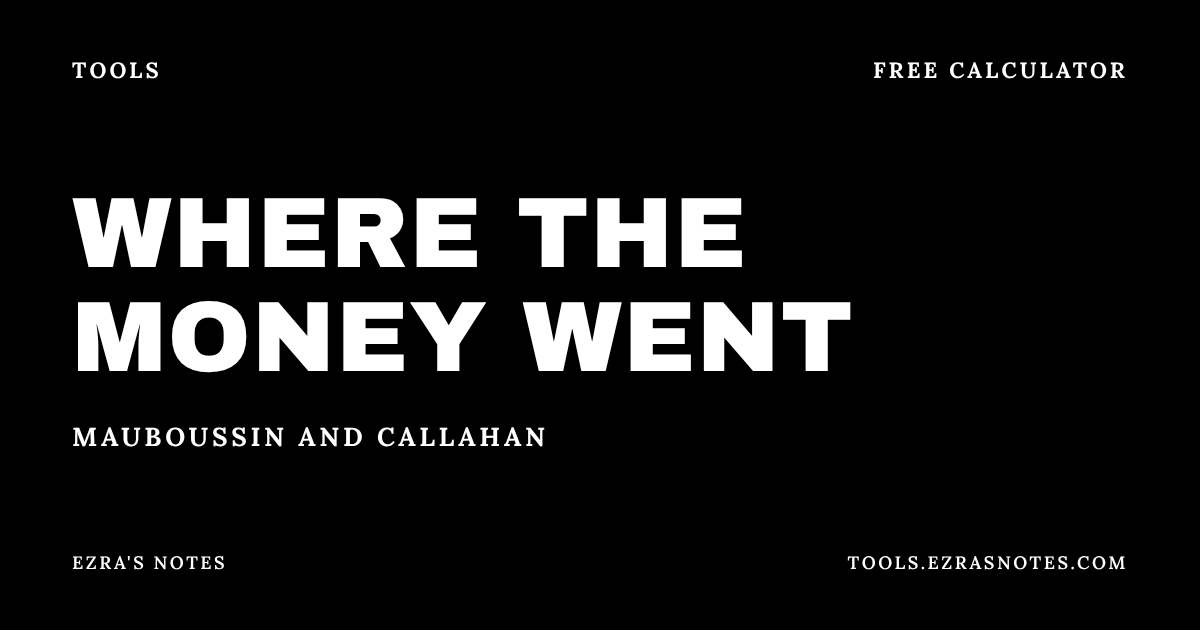
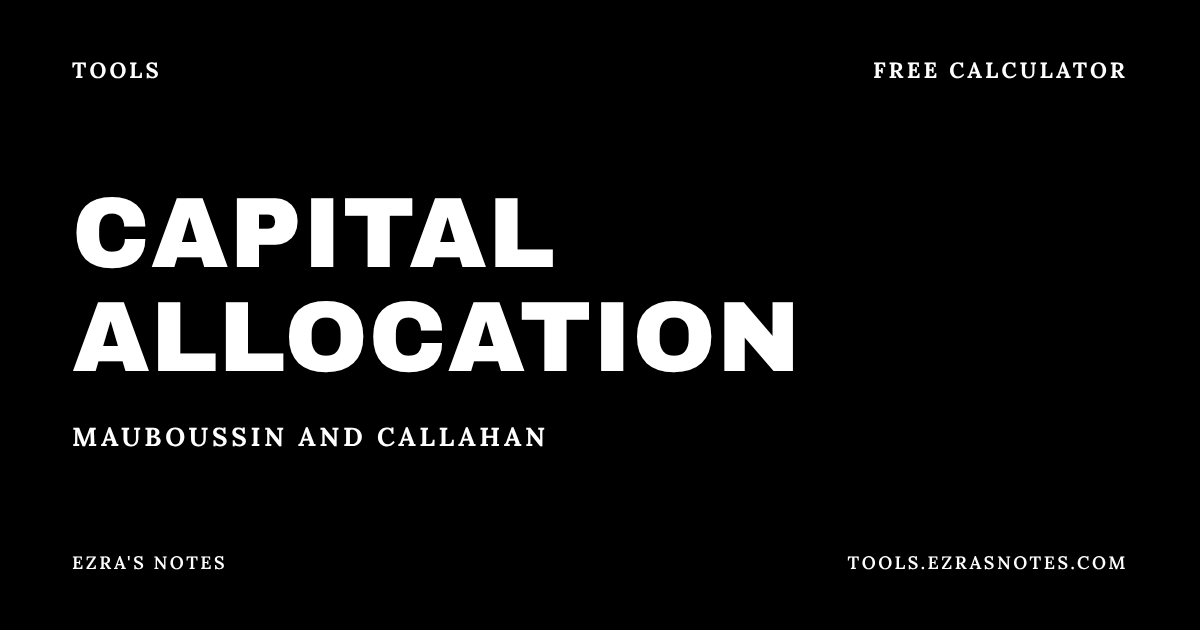
Rename to Capital allocation calculator
Claude-Session: https://claude.ai/code/session_01TK5xzE693EdAtTtiDb4wL7

Changed region(s): [[0.0617, 0.4524, 0.7092, 0.6032], [0.0617, 0.3016, 0.6167, 0.4222]]

diff --git a/docs/capital-allocation/index.html b/docs/capital-allocation/index.html
@@ -7,27 +7,27 @@
 <meta name="viewport" content="width=device-width, initial-scale=1">
 <meta name="color-scheme" content="light dark">
 <script>(function(){var t;try{t=localStorage.getItem('theme')}catch(e){}if(t!=='dark'&&t!=='light'){t=window.matchMedia&&matchMedia('(prefers-color-scheme: dark)').matches?'dark':'light'}document.documentElement.setAttribute('data-theme',t)})();</script>
-<title>Where the money went: capital allocation calculator · Ezra's Notes</title>
+<title>Capital allocation calculator: where the money went · Ezra's Notes</title>
 <meta name="description" content="Where a company's cash came from and where it went over 5 years, what each $1 of new sales cost, and its payout. Mauboussin and Callahan's method. Free.">
 <link rel="preconnect" href="https://fonts.googleapis.com">
 <link rel="preconnect" href="https://fonts.gstatic.com" crossorigin>
 <link href="https://fonts.googleapis.com/css2?family=Archivo+Black&family=Lora:ital,wght@0,400;0,600;1,400&display=swap" rel="stylesheet">
 <link rel="stylesheet" href="../static/style.css?v=14a037f5">
-<meta property="og:title" content="Where the money went: capital allocation calculator · Ezra's Notes">
+<meta property="og:title" content="Capital allocation calculator: where the money went · Ezra's Notes">
 <meta property="og:description" content="Where a company's cash came from and where it went over 5 years, what each $1 of new sales cost, and its payout. Mauboussin and Callahan's method. Free.">
 <meta property="og:url" content="https://tools.ezrasnotes.com/capital-allocation/">
 <meta property="og:type" content="website">
 <meta property="og:site_name" content="Tools · Ezra's Notes"><meta property="og:image" content="https://tools.ezrasnotes.com/static/og/capital-allocation.png">
 <meta property="og:image:width" content="1200">
 <meta property="og:image:height" content="630">
-<meta property="og:image:alt" content="Where the money went, a free calculator by Ezra Crangle. Where a company&#39;s cash came from, where it went, and what went back to shareholders.">
+<meta property="og:image:alt" content="Capital allocation calculator, a free calculator by Ezra Crangle. Where a company&#39;s cash came from, where it went, and what went back to shareholders.">
 <meta name="twitter:card" content="summary_large_image">
 <meta name="twitter:image" content="https://tools.ezrasnotes.com/static/og/capital-allocation.png">
 <meta name="twitter:site" content="@ezracrangle">
 <link rel="icon" href="../static/favicon.ico" sizes="any">
 <link rel="icon" type="image/png" sizes="512x512" href="../static/icon-512.png">
 <link rel="apple-touch-icon" href="../static/apple-touch-icon.png">
-<link rel="canonical" href="https://tools.ezrasnotes.com/capital-allocation/"><script type="application/ld+json">{"@context": "https://schema.org", "@type": "BreadcrumbList", "itemListElement": [{"@type": "ListItem", "item": "https://tools.ezrasnotes.com/", "name": "Home", "position": 1}, {"@type": "ListItem", "item": "https://tools.ezrasnotes.com/capital-allocation/", "name": "Where the money went: capital allocation calculator", "position": 2}]}</script></head>
+<link rel="canonical" href="https://tools.ezrasnotes.com/capital-allocation/"><script type="application/ld+json">{"@context": "https://schema.org", "@type": "BreadcrumbList", "itemListElement": [{"@type": "ListItem", "item": "https://tools.ezrasnotes.com/", "name": "Home", "position": 1}, {"@type": "ListItem", "item": "https://tools.ezrasnotes.com/capital-allocation/", "name": "Capital allocation calculator: where the money went", "position": 2}]}</script></head>
 <body data-collect="https://script.google.com/macros/s/AKfycbz-a4q03dY00RYGWBKOHaKqYKL92Z3afAqhJ5iYdPQGYCMbU2CpFTR-JfEfArbdoUZXHg/exec" data-tool-name="the capital allocation calculator">
 <header class="masthead">
   <div class="topline">
@@ -42,7 +42,7 @@
     <a href="../">All tools</a>
     <details class="nav-menu">
       <summary>Tools</summary>
-      <div class="nav-drop"><a href="../net-net/">Net-net calculator</a><a href="../epv/">Earnings power value</a><a href="../greenwald/">Greenwald&#39;s moat test</a><a href="../penman/">Penman&#39;s residual income</a><a href="../graham/">Graham&#39;s formulas</a><a href="../fcf/">Mauboussin&#39;s FCF</a><a href="../roic/">ROIC, ROIIC and reinvestment</a><a href="../reverse-dcf/">Reverse DCF</a><a href="../compounders/">What to pay for quality</a><a href="../dhandho/">Pabrai&#39;s Dhandho bet</a><a href="../lynch/">Peter Lynch&#39;s PEG</a><a href="../marks/">Howard Marks&#39; market temperature</a><a href="../intangibles/">Intangibles and earnings</a><a href="../capital-allocation/" aria-current="page">Where the money went</a><a href="../buybacks/">Buybacks and stock comp</a><a href="../moat/">Measuring the moat</a><a href="../red-flags/">Red flags</a><a href="../beauty-contest/">Keynes&#39; beauty contest</a></div>
+      <div class="nav-drop"><a href="../net-net/">Net-net calculator</a><a href="../epv/">Earnings power value</a><a href="../greenwald/">Greenwald&#39;s moat test</a><a href="../penman/">Penman&#39;s residual income</a><a href="../graham/">Graham&#39;s formulas</a><a href="../fcf/">Mauboussin&#39;s FCF</a><a href="../roic/">ROIC, ROIIC and reinvestment</a><a href="../reverse-dcf/">Reverse DCF</a><a href="../compounders/">What to pay for quality</a><a href="../dhandho/">Pabrai&#39;s Dhandho bet</a><a href="../lynch/">Peter Lynch&#39;s PEG</a><a href="../marks/">Howard Marks&#39; market temperature</a><a href="../intangibles/">Intangibles and earnings</a><a href="../capital-allocation/" aria-current="page">Capital allocation calculator</a><a href="../buybacks/">Buybacks and stock comp</a><a href="../moat/">Measuring the moat</a><a href="../red-flags/">Red flags</a><a href="../beauty-contest/">Keynes&#39; beauty contest</a></div>
     </details>
     <a href="../about/">About</a>
     <a href="https://www.ezrasnotes.com/subscribe" class="nav-cta">Subscribe</a>
@@ -53,7 +53,7 @@
 <div class="print-head" aria-hidden="true"><strong>Ezra's Notes · Tools</strong><span id="print-stamp"></span></div>
 <div class="print-summary verdict" id="print-summary" aria-hidden="true"></div>
 <section class="lede">
-  <h1 class="page-title">Where the money went</h1>
+  <h1 class="page-title">Capital allocation calculator</h1>
   <p class="dek">Capital allocation starts with a plain question: where did the cash come from, and where did it go? Michael Mauboussin and Dan Callahan begin every assessment there, before ROIC or incentives.</p>
   <p>5 years from the cash flow statement, oldest first, all as positive numbers. Nothing you type leaves your browser.</p>
 </section>

diff --git a/docs/index.html b/docs/index.html
@@ -42,7 +42,7 @@
     <a href="" aria-current="page">All tools</a>
     <details class="nav-menu">
       <summary>Tools</summary>
-      <div class="nav-drop"><a href="net-net/">Net-net calculator</a><a href="epv/">Earnings power value</a><a href="greenwald/">Greenwald&#39;s moat test</a><a href="penman/">Penman&#39;s residual income</a><a href="graham/">Graham&#39;s formulas</a><a href="fcf/">Mauboussin&#39;s FCF</a><a href="roic/">ROIC, ROIIC and reinvestment</a><a href="reverse-dcf/">Reverse DCF</a><a href="compounders/">What to pay for quality</a><a href="dhandho/">Pabrai&#39;s Dhandho bet</a><a href="lynch/">Peter Lynch&#39;s PEG</a><a href="marks/">Howard Marks&#39; market temperature</a><a href="intangibles/">Intangibles and earnings</a><a href="capital-allocation/">Where the money went</a><a href="buybacks/">Buybacks and stock comp</a><a href="moat/">Measuring the moat</a><a href="red-flags/">Red flags</a><a href="beauty-contest/">Keynes&#39; beauty contest</a></div>
+      <div class="nav-drop"><a href="net-net/">Net-net calculator</a><a href="epv/">Earnings power value</a><a href="greenwald/">Greenwald&#39;s moat test</a><a href="penman/">Penman&#39;s residual income</a><a href="graham/">Graham&#39;s formulas</a><a href="fcf/">Mauboussin&#39;s FCF</a><a href="roic/">ROIC, ROIIC and reinvestment</a><a href="reverse-dcf/">Reverse DCF</a><a href="compounders/">What to pay for quality</a><a href="dhandho/">Pabrai&#39;s Dhandho bet</a><a href="lynch/">Peter Lynch&#39;s PEG</a><a href="marks/">Howard Marks&#39; market temperature</a><a href="intangibles/">Intangibles and earnings</a><a href="capital-allocation/">Capital allocation calculator</a><a href="buybacks/">Buybacks and stock comp</a><a href="moat/">Measuring the moat</a><a href="red-flags/">Red flags</a><a href="beauty-contest/">Keynes&#39; beauty contest</a></div>
     </details>
     <a href="about/">About</a>
     <a href="https://www.ezrasnotes.com/subscribe" class="nav-cta">Subscribe</a>
@@ -111,7 +111,7 @@
     <p>What a company really earns once its spending on brands, customers and R&amp;D counts as investment, by industry. From Mauboussin and Callahan&#39;s Intangibles and Earnings.</p>
   </li>
   <li>
-<h2><a href="capital-allocation/">Where the money went</a></h2><span class="status live">Live</span>
+<h2><a href="capital-allocation/">Capital allocation calculator</a></h2><span class="status live">Live</span>
     <p>Where a company&#39;s cash came from and where it went over 5 years, what each $1 of new sales cost in investment, and how much went back to shareholders.</p>
   </li>
   <li>

diff --git a/docs/beauty-contest/index.html b/docs/beauty-contest/index.html
@@ -42,7 +42,7 @@
     <a href="../">All tools</a>
     <details class="nav-menu">
       <summary>Tools</summary>
-      <div class="nav-drop"><a href="../net-net/">Net-net calculator</a><a href="../epv/">Earnings power value</a><a href="../greenwald/">Greenwald&#39;s moat test</a><a href="../penman/">Penman&#39;s residual income</a><a href="../graham/">Graham&#39;s formulas</a><a href="../fcf/">Mauboussin&#39;s FCF</a><a href="../roic/">ROIC, ROIIC and reinvestment</a><a href="../reverse-dcf/">Reverse DCF</a><a href="../compounders/">What to pay for quality</a><a href="../dhandho/">Pabrai&#39;s Dhandho bet</a><a href="../lynch/">Peter Lynch&#39;s PEG</a><a href="../marks/">Howard Marks&#39; market temperature</a><a href="../intangibles/">Intangibles and earnings</a><a href="../capital-allocation/">Where the money went</a><a href="../buybacks/">Buybacks and stock comp</a><a href="../moat/">Measuring the moat</a><a href="../red-flags/">Red flags</a><a href="../beauty-contest/" aria-current="page">Keynes&#39; beauty contest</a></div>
+      <div class="nav-drop"><a href="../net-net/">Net-net calculator</a><a href="../epv/">Earnings power value</a><a href="../greenwald/">Greenwald&#39;s moat test</a><a href="../penman/">Penman&#39;s residual income</a><a href="../graham/">Graham&#39;s formulas</a><a href="../fcf/">Mauboussin&#39;s FCF</a><a href="../roic/">ROIC, ROIIC and reinvestment</a><a href="../reverse-dcf/">Reverse DCF</a><a href="../compounders/">What to pay for quality</a><a href="../dhandho/">Pabrai&#39;s Dhandho bet</a><a href="../lynch/">Peter Lynch&#39;s PEG</a><a href="../marks/">Howard Marks&#39; market temperature</a><a href="../intangibles/">Intangibles and earnings</a><a href="../capital-allocation/">Capital allocation calculator</a><a href="../buybacks/">Buybacks and stock comp</a><a href="../moat/">Measuring the moat</a><a href="../red-flags/">Red flags</a><a href="../beauty-contest/" aria-current="page">Keynes&#39; beauty contest</a></div>
     </details>
     <a href="../about/">About</a>
     <a href="https://www.ezrasnotes.com/subscribe" class="nav-cta">Subscribe</a>

diff --git a/docs/buybacks/index.html b/docs/buybacks/index.html
@@ -42,7 +42,7 @@
     <a href="../">All tools</a>
     <details class="nav-menu">
       <summary>Tools</summary>
-      <div class="nav-drop"><a href="../net-net/">Net-net calculator</a><a href="../epv/">Earnings power value</a><a href="../greenwald/">Greenwald&#39;s moat test</a><a href="../penman/">Penman&#39;s residual income</a><a href="../graham/">Graham&#39;s formulas</a><a href="../fcf/">Mauboussin&#39;s FCF</a><a href="../roic/">ROIC, ROIIC and reinvestment</a><a href="../reverse-dcf/">Reverse DCF</a><a href="../compounders/">What to pay for quality</a><a href="../dhandho/">Pabrai&#39;s Dhandho bet</a><a href="../lynch/">Peter Lynch&#39;s PEG</a><a href="../marks/">Howard Marks&#39; market temperature</a><a href="../intangibles/">Intangibles and earnings</a><a href="../capital-allocation/">Where the money went</a><a href="../buybacks/" aria-current="page">Buybacks and stock comp</a><a href="../moat/">Measuring the moat</a><a href="../red-flags/">Red flags</a><a href="../beauty-contest/">Keynes&#39; beauty contest</a></div>
+      <div class="nav-drop"><a href="../net-net/">Net-net calculator</a><a href="../epv/">Earnings power value</a><a href="../greenwald/">Greenwald&#39;s moat test</a><a href="../penman/">Penman&#39;s residual income</a><a href="../graham/">Graham&#39;s formulas</a><a href="../fcf/">Mauboussin&#39;s FCF</a><a href="../roic/">ROIC, ROIIC and reinvestment</a><a href="../reverse-dcf/">Reverse DCF</a><a href="../compounders/">What to pay for quality</a><a href="../dhandho/">Pabrai&#39;s Dhandho bet</a><a href="../lynch/">Peter Lynch&#39;s PEG</a><a href="../marks/">Howard Marks&#39; market temperature</a><a href="../intangibles/">Intangibles and earnings</a><a href="../capital-allocation/">Capital allocation calculator</a><a href="../buybacks/" aria-current="page">Buybacks and stock comp</a><a href="../moat/">Measuring the moat</a><a href="../red-flags/">Red flags</a><a href="../beauty-contest/">Keynes&#39; beauty contest</a></div>
     </details>
     <a href="../about/">About</a>
     <a href="https://www.ezrasnotes.com/subscribe" class="nav-cta">Subscribe</a>

diff --git a/docs/compounders/index.html b/docs/compounders/index.html
@@ -42,7 +42,7 @@
     <a href="../">All tools</a>
     <details class="nav-menu">
       <summary>Tools</summary>
-      <div class="nav-drop"><a href="../net-net/">Net-net calculator</a><a href="../epv/">Earnings power value</a><a href="../greenwald/">Greenwald&#39;s moat test</a><a href="../penman/">Penman&#39;s residual income</a><a href="../graham/">Graham&#39;s formulas</a><a href="../fcf/">Mauboussin&#39;s FCF</a><a href="../roic/">ROIC, ROIIC and reinvestment</a><a href="../reverse-dcf/">Reverse DCF</a><a href="../compounders/" aria-current="page">What to pay for quality</a><a href="../dhandho/">Pabrai&#39;s Dhandho bet</a><a href="../lynch/">Peter Lynch&#39;s PEG</a><a href="../marks/">Howard Marks&#39; market temperature</a><a href="../intangibles/">Intangibles and earnings</a><a href="../capital-allocation/">Where the money went</a><a href="../buybacks/">Buybacks and stock comp</a><a href="../moat/">Measuring the moat</a><a href="../red-flags/">Red flags</a><a href="../beauty-contest/">Keynes&#39; beauty contest</a></div>
+      <div class="nav-drop"><a href="../net-net/">Net-net calculator</a><a href="../epv/">Earnings power value</a><a href="../greenwald/">Greenwald&#39;s moat test</a><a href="../penman/">Penman&#39;s residual income</a><a href="../graham/">Graham&#39;s formulas</a><a href="../fcf/">Mauboussin&#39;s FCF</a><a href="../roic/">ROIC, ROIIC and reinvestment</a><a href="../reverse-dcf/">Reverse DCF</a><a href="../compounders/" aria-current="page">What to pay for quality</a><a href="../dhandho/">Pabrai&#39;s Dhandho bet</a><a href="../lynch/">Peter Lynch&#39;s PEG</a><a href="../marks/">Howard Marks&#39; market temperature</a><a href="../intangibles/">Intangibles and earnings</a><a href="../capital-allocation/">Capital allocation calculator</a><a href="../buybacks/">Buybacks and stock comp</a><a href="../moat/">Measuring the moat</a><a href="../red-flags/">Red flags</a><a href="../beauty-contest/">Keynes&#39; beauty contest</a></div>
     </details>
     <a href="../about/">About</a>
     <a href="https://www.ezrasnotes.com/subscribe" class="nav-cta">Subscribe</a>

diff --git a/docs/dhandho/index.html b/docs/dhandho/index.html
@@ -42,7 +42,7 @@
     <a href="../">All tools</a>
     <details class="nav-menu">
       <summary>Tools</summary>
-      <div class="nav-drop"><a href="../net-net/">Net-net calculator</a><a href="../epv/">Earnings power value</a><a href="../greenwald/">Greenwald&#39;s moat test</a><a href="../penman/">Penman&#39;s residual income</a><a href="../graham/">Graham&#39;s formulas</a><a href="../fcf/">Mauboussin&#39;s FCF</a><a href="../roic/">ROIC, ROIIC and reinvestment</a><a href="../reverse-dcf/">Reverse DCF</a><a href="../compounders/">What to pay for quality</a><a href="../dhandho/" aria-current="page">Pabrai&#39;s Dhandho bet</a><a href="../lynch/">Peter Lynch&#39;s PEG</a><a href="../marks/">Howard Marks&#39; market temperature</a><a href="../intangibles/">Intangibles and earnings</a><a href="../capital-allocation/">Where the money went</a><a href="../buybacks/">Buybacks and stock comp</a><a href="../moat/">Measuring the moat</a><a href="../red-flags/">Red flags</a><a href="../beauty-contest/">Keynes&#39; beauty contest</a></div>
+      <div class="nav-drop"><a href="../net-net/">Net-net calculator</a><a href="../epv/">Earnings power value</a><a href="../greenwald/">Greenwald&#39;s moat test</a><a href="../penman/">Penman&#39;s residual income</a><a href="../graham/">Graham&#39;s formulas</a><a href="../fcf/">Mauboussin&#39;s FCF</a><a href="../roic/">ROIC, ROIIC and reinvestment</a><a href="../reverse-dcf/">Reverse DCF</a><a href="../compounders/">What to pay for quality</a><a href="../dhandho/" aria-current="page">Pabrai&#39;s Dhandho bet</a><a href="../lynch/">Peter Lynch&#39;s PEG</a><a href="../marks/">Howard Marks&#39; market temperature</a><a href="../intangibles/">Intangibles and earnings</a><a href="../capital-allocation/">Capital allocation calculator</a><a href="../buybacks/">Buybacks and stock comp</a><a href="../moat/">Measuring the moat</a><a href="../red-flags/">Red flags</a><a href="../beauty-contest/">Keynes&#39; beauty contest</a></div>
     </details>
     <a href="../about/">About</a>
     <a href="https://www.ezrasnotes.com/subscribe" class="nav-cta">Subscribe</a>

diff --git a/docs/epv/index.html b/docs/epv/index.html
@@ -42,7 +42,7 @@
     <a href="../">All tools</a>
     <details class="nav-menu">
       <summary>Tools</summary>
-      <div class="nav-drop"><a href="../net-net/">Net-net calculator</a><a href="../epv/" aria-current="page">Earnings power value</a><a href="../greenwald/">Greenwald&#39;s moat test</a><a href="../penman/">Penman&#39;s residual income</a><a href="../graham/">Graham&#39;s formulas</a><a href="../fcf/">Mauboussin&#39;s FCF</a><a href="../roic/">ROIC, ROIIC and reinvestment</a><a href="../reverse-dcf/">Reverse DCF</a><a href="../compounders/">What to pay for quality</a><a href="../dhandho/">Pabrai&#39;s Dhandho bet</a><a href="../lynch/">Peter Lynch&#39;s PEG</a><a href="../marks/">Howard Marks&#39; market temperature</a><a href="../intangibles/">Intangibles and earnings</a><a href="../capital-allocation/">Where the money went</a><a href="../buybacks/">Buybacks and stock comp</a><a href="../moat/">Measuring the moat</a><a href="../red-flags/">Red flags</a><a href="../beauty-contest/">Keynes&#39; beauty contest</a></div>
+      <div class="nav-drop"><a href="../net-net/">Net-net calculator</a><a href="../epv/" aria-current="page">Earnings power value</a><a href="../greenwald/">Greenwald&#39;s moat test</a><a href="../penman/">Penman&#39;s residual income</a><a href="../graham/">Graham&#39;s formulas</a><a href="../fcf/">Mauboussin&#39;s FCF</a><a href="../roic/">ROIC, ROIIC and reinvestment</a><a href="../reverse-dcf/">Reverse DCF</a><a href="../compounders/">What to pay for quality</a><a href="../dhandho/">Pabrai&#39;s Dhandho bet</a><a href="../lynch/">Peter Lynch&#39;s PEG</a><a href="../marks/">Howard Marks&#39; market temperature</a><a href="../intangibles/">Intangibles and earnings</a><a href="../capital-allocation/">Capital allocation calculator</a><a href="../buybacks/">Buybacks and stock comp</a><a href="../moat/">Measuring the moat</a><a href="../red-flags/">Red flags</a><a href="../beauty-contest/">Keynes&#39; beauty contest</a></div>
     </details>
     <a href="../about/">About</a>
     <a href="https://www.ezrasnotes.com/subscribe" class="nav-cta">Subscribe</a>

diff --git a/docs/fcf/index.html b/docs/fcf/index.html
@@ -42,7 +42,7 @@
     <a href="../">All tools</a>
     <details class="nav-menu">
       <summary>Tools</summary>
-      <div class="nav-drop"><a href="../net-net/">Net-net calculator</a><a href="../epv/">Earnings power value</a><a href="../greenwald/">Greenwald&#39;s moat test</a><a href="../penman/">Penman&#39;s residual income</a><a href="../graham/">Graham&#39;s formulas</a><a href="../fcf/" aria-current="page">Mauboussin&#39;s FCF</a><a href="../roic/">ROIC, ROIIC and reinvestment</a><a href="../reverse-dcf/">Reverse DCF</a><a href="../compounders/">What to pay for quality</a><a href="../dhandho/">Pabrai&#39;s Dhandho bet</a><a href="../lynch/">Peter Lynch&#39;s PEG</a><a href="../marks/">Howard Marks&#39; market temperature</a><a href="../intangibles/">Intangibles and earnings</a><a href="../capital-allocation/">Where the money went</a><a href="../buybacks/">Buybacks and stock comp</a><a href="../moat/">Measuring the moat</a><a href="../red-flags/">Red flags</a><a href="../beauty-contest/">Keynes&#39; beauty contest</a></div>
+      <div class="nav-drop"><a href="../net-net/">Net-net calculator</a><a href="../epv/">Earnings power value</a><a href="../greenwald/">Greenwald&#39;s moat test</a><a href="../penman/">Penman&#39;s residual income</a><a href="../graham/">Graham&#39;s formulas</a><a href="../fcf/" aria-current="page">Mauboussin&#39;s FCF</a><a href="../roic/">ROIC, ROIIC and reinvestment</a><a href="../reverse-dcf/">Reverse DCF</a><a href="../compounders/">What to pay for quality</a><a href="../dhandho/">Pabrai&#39;s Dhandho bet</a><a href="../lynch/">Peter Lynch&#39;s PEG</a><a href="../marks/">Howard Marks&#39; market temperature</a><a href="../intangibles/">Intangibles and earnings</a><a href="../capital-allocation/">Capital allocation calculator</a><a href="../buybacks/">Buybacks and stock comp</a><a href="../moat/">Measuring the moat</a><a href="../red-flags/">Red flags</a><a href="../beauty-contest/">Keynes&#39; beauty contest</a></div>
     </details>
     <a href="../about/">About</a>
     <a href="https://www.ezrasnotes.com/subscribe" class="nav-cta">Subscribe</a>

diff --git a/docs/graham/index.html b/docs/graham/index.html
@@ -42,7 +42,7 @@
     <a href="../">All tools</a>
     <details class="nav-menu">
       <summary>Tools</summary>
-      <div class="nav-drop"><a href="../net-net/">Net-net calculator</a><a href="../epv/">Earnings power value</a><a href="../greenwald/">Greenwald&#39;s moat test</a><a href="../penman/">Penman&#39;s residual income</a><a href="../graham/" aria-current="page">Graham&#39;s formulas</a><a href="../fcf/">Mauboussin&#39;s FCF</a><a href="../roic/">ROIC, ROIIC and reinvestment</a><a href="../reverse-dcf/">Reverse DCF</a><a href="../compounders/">What to pay for quality</a><a href="../dhandho/">Pabrai&#39;s Dhandho bet</a><a href="../lynch/">Peter Lynch&#39;s PEG</a><a href="../marks/">Howard Marks&#39; market temperature</a><a href="../intangibles/">Intangibles and earnings</a><a href="../capital-allocation/">Where the money went</a><a href="../buybacks/">Buybacks and stock comp</a><a href="../moat/">Measuring the moat</a><a href="../red-flags/">Red flags</a><a href="../beauty-contest/">Keynes&#39; beauty contest</a></div>
+      <div class="nav-drop"><a href="../net-net/">Net-net calculator</a><a href="../epv/">Earnings power value</a><a href="../greenwald/">Greenwald&#39;s moat test</a><a href="../penman/">Penman&#39;s residual income</a><a href="../graham/" aria-current="page">Graham&#39;s formulas</a><a href="../fcf/">Mauboussin&#39;s FCF</a><a href="../roic/">ROIC, ROIIC and reinvestment</a><a href="../reverse-dcf/">Reverse DCF</a><a href="../compounders/">What to pay for quality</a><a href="../dhandho/">Pabrai&#39;s Dhandho bet</a><a href="../lynch/">Peter Lynch&#39;s PEG</a><a href="../marks/">Howard Marks&#39; market temperature</a><a href="../intangibles/">Intangibles and earnings</a><a href="../capital-allocation/">Capital allocation calculator</a><a href="../buybacks/">Buybacks and stock comp</a><a href="../moat/">Measuring the moat</a><a href="../red-flags/">Red flags</a><a href="../beauty-contest/">Keynes&#39; beauty contest</a></div>
     </details>
     <a href="../about/">About</a>
     <a href="https://www.ezrasnotes.com/subscribe" class="nav-cta">Subscribe</a>

diff --git a/docs/greenwald/index.html b/docs/greenwald/index.html
@@ -42,7 +42,7 @@
     <a href="../">All tools</a>
     <details class="nav-menu">
       <summary>Tools</summary>
-      <div class="nav-drop"><a href="../net-net/">Net-net calculator</a><a href="../epv/">Earnings power value</a><a href="../greenwald/" aria-current="page">Greenwald&#39;s moat test</a><a href="../penman/">Penman&#39;s residual income</a><a href="../graham/">Graham&#39;s formulas</a><a href="../fcf/">Mauboussin&#39;s FCF</a><a href="../roic/">ROIC, ROIIC and reinvestment</a><a href="../reverse-dcf/">Reverse DCF</a><a href="../compounders/">What to pay for quality</a><a href="../dhandho/">Pabrai&#39;s Dhandho bet</a><a href="../lynch/">Peter Lynch&#39;s PEG</a><a href="../marks/">Howard Marks&#39; market temperature</a><a href="../intangibles/">Intangibles and earnings</a><a href="../capital-allocation/">Where the money went</a><a href="../buybacks/">Buybacks and stock comp</a><a href="../moat/">Measuring the moat</a><a href="../red-flags/">Red flags</a><a href="../beauty-contest/">Keynes&#39; beauty contest</a></div>
+      <div class="nav-drop"><a href="../net-net/">Net-net calculator</a><a href="../epv/">Earnings power value</a><a href="../greenwald/" aria-current="page">Greenwald&#39;s moat test</a><a href="../penman/">Penman&#39;s residual income</a><a href="../graham/">Graham&#39;s formulas</a><a href="../fcf/">Mauboussin&#39;s FCF</a><a href="../roic/">ROIC, ROIIC and reinvestment</a><a href="../reverse-dcf/">Reverse DCF</a><a href="../compounders/">What to pay for quality</a><a href="../dhandho/">Pabrai&#39;s Dhandho bet</a><a href="../lynch/">Peter Lynch&#39;s PEG</a><a href="../marks/">Howard Marks&#39; market temperature</a><a href="../intangibles/">Intangibles and earnings</a><a href="../capital-allocation/">Capital allocation calculator</a><a href="../buybacks/">Buybacks and stock comp</a><a href="../moat/">Measuring the moat</a><a href="../red-flags/">Red flags</a><a href="../beauty-contest/">Keynes&#39; beauty contest</a></div>
     </details>
     <a href="../about/">About</a>
     <a href="https://www.ezrasnotes.com/subscribe" class="nav-cta">Subscribe</a>

diff --git a/docs/intangibles/index.html b/docs/intangibles/index.html
@@ -42,7 +42,7 @@
     <a href="../">All tools</a>
     <details class="nav-menu">
       <summary>Tools</summary>
-      <div class="nav-drop"><a href="../net-net/">Net-net calculator</a><a href="../epv/">Earnings power value</a><a href="../greenwald/">Greenwald&#39;s moat test</a><a href="../penman/">Penman&#39;s residual income</a><a href="../graham/">Graham&#39;s formulas</a><a href="../fcf/">Mauboussin&#39;s FCF</a><a href="../roic/">ROIC, ROIIC and reinvestment</a><a href="../reverse-dcf/">Reverse DCF</a><a href="../compounders/">What to pay for quality</a><a href="../dhandho/">Pabrai&#39;s Dhandho bet</a><a href="../lynch/">Peter Lynch&#39;s PEG</a><a href="../marks/">Howard Marks&#39; market temperature</a><a href="../intangibles/" aria-current="page">Intangibles and earnings</a><a href="../capital-allocation/">Where the money went</a><a href="../buybacks/">Buybacks and stock comp</a><a href="../moat/">Measuring the moat</a><a href="../red-flags/">Red flags</a><a href="../beauty-contest/">Keynes&#39; beauty contest</a></div>
+      <div class="nav-drop"><a href="../net-net/">Net-net calculator</a><a href="../epv/">Earnings power value</a><a href="../greenwald/">Greenwald&#39;s moat test</a><a href="../penman/">Penman&#39;s residual income</a><a href="../graham/">Graham&#39;s formulas</a><a href="../fcf/">Mauboussin&#39;s FCF</a><a href="../roic/">ROIC, ROIIC and reinvestment</a><a href="../reverse-dcf/">Reverse DCF</a><a href="../compounders/">What to pay for quality</a><a href="../dhandho/">Pabrai&#39;s Dhandho bet</a><a href="../lynch/">Peter Lynch&#39;s PEG</a><a href="../marks/">Howard Marks&#39; market temperature</a><a href="../intangibles/" aria-current="page">Intangibles and earnings</a><a href="../capital-allocation/">Capital allocation calculator</a><a href="../buybacks/">Buybacks and stock comp</a><a href="../moat/">Measuring the moat</a><a href="../red-flags/">Red flags</a><a href="../beauty-contest/">Keynes&#39; beauty contest</a></div>
     </details>
     <a href="../about/">About</a>
     <a href="https://www.ezrasnotes.com/subscribe" class="nav-cta">Subscribe</a>

diff --git a/docs/lynch/index.html b/docs/lynch/index.html
@@ -42,7 +42,7 @@
     <a href="../">All tools</a>
     <details class="nav-menu">
       <summary>Tools</summary>
-      <div class="nav-drop"><a href="../net-net/">Net-net calculator</a><a href="../epv/">Earnings power value</a><a href="../greenwald/">Greenwald&#39;s moat test</a><a href="../penman/">Penman&#39;s residual income</a><a href="../graham/">Graham&#39;s formulas</a><a href="../fcf/">Mauboussin&#39;s FCF</a><a href="../roic/">ROIC, ROIIC and reinvestment</a><a href="../reverse-dcf/">Reverse DCF</a><a href="../compounders/">What to pay for quality</a><a href="../dhandho/">Pabrai&#39;s Dhandho bet</a><a href="../lynch/" aria-current="page">Peter Lynch&#39;s PEG</a><a href="../marks/">Howard Marks&#39; market temperature</a><a href="../intangibles/">Intangibles and earnings</a><a href="../capital-allocation/">Where the money went</a><a href="../buybacks/">Buybacks and stock comp</a><a href="../moat/">Measuring the moat</a><a href="../red-flags/">Red flags</a><a href="../beauty-contest/">Keynes&#39; beauty contest</a></div>
+      <div class="nav-drop"><a href="../net-net/">Net-net calculator</a><a href="../epv/">Earnings power value</a><a href="../greenwald/">Greenwald&#39;s moat test</a><a href="../penman/">Penman&#39;s residual income</a><a href="../graham/">Graham&#39;s formulas</a><a href="../fcf/">Mauboussin&#39;s FCF</a><a href="../roic/">ROIC, ROIIC and reinvestment</a><a href="../reverse-dcf/">Reverse DCF</a><a href="../compounders/">What to pay for quality</a><a href="../dhandho/">Pabrai&#39;s Dhandho bet</a><a href="../lynch/" aria-current="page">Peter Lynch&#39;s PEG</a><a href="../marks/">Howard Marks&#39; market temperature</a><a href="../intangibles/">Intangibles and earnings</a><a href="../capital-allocation/">Capital allocation calculator</a><a href="../buybacks/">Buybacks and stock comp</a><a href="../moat/">Measuring the moat</a><a href="../red-flags/">Red flags</a><a href="../beauty-contest/">Keynes&#39; beauty contest</a></div>
     </details>
     <a href="../about/">About</a>
     <a href="https://www.ezrasnotes.com/subscribe" class="nav-cta">Subscribe</a>
